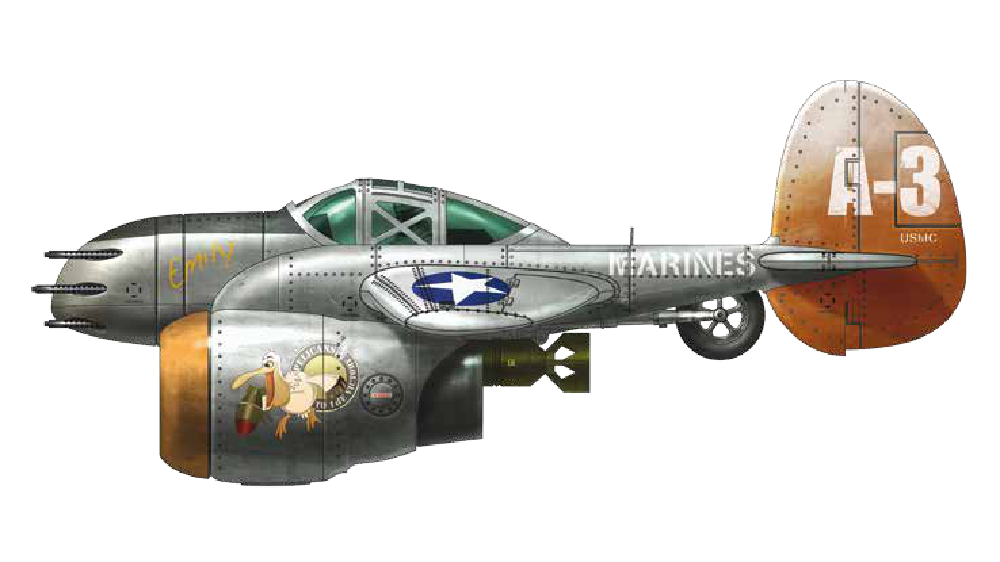
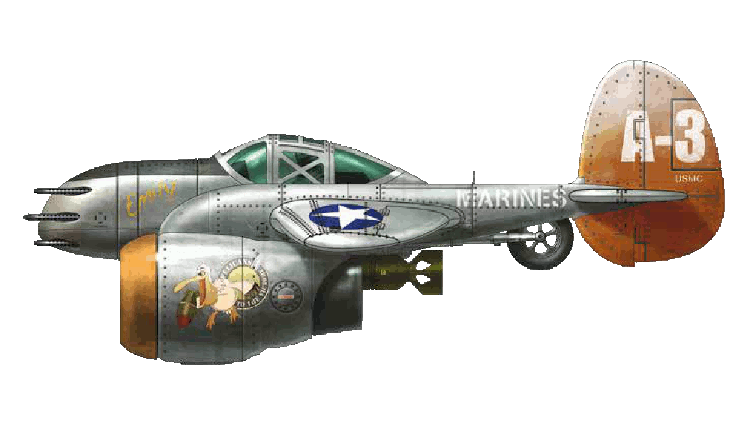
reduce file sizes

diff --git a/content/post/battle-for-zverograd-part-2.md b/content/post/battle-for-zverograd-part-2.md
@@ -66,7 +66,7 @@ Axis forces are all but surrounded inside Zverograd after losing control of the 
 The SSU have exhausted nearly all their reinforcements and Stavka has decided to cut its losses and leave the defenders of Zverograd to their fate. There are many other fronts to fight on; things are looking grim for SSU forces in North America and Africa. Thanks to the industrial facilities under SSU control inside the city, their soldiers can still get ammo and repair their vehicles, but every man who doesn’t come back from the daily ambushes and city fights is a definitive loss. The SSU troops have decided to dig in permanently, as they did in Stalingrad. The SSU have been trying to transform their chunk of the city into a bastion. Whole city blocks on the edge of their sector have been heavily fortified. They can now withstand and repel all but the most ferocious assault.
 
 The Allies have succeeded in their goal of taking control of the Western part of Zverograd. Their bold plan has worked, but at tremendous cost. Several elite regiments have been all but destroyed, and many others are barely fit for further combat. The “Zverograd Situation” has horrified Allied command, but they see no easy way to pull out of the city. Orders have arrived with strict instructions to minimize casualties as much as possible. No more soldiers’ lives should be lost on this front, and reinforcements will be scarce. This has caused Allied forces in Zverograd to follow their enemies’ lead and dig in as hard as possible.
-{{<figure src="/images/ssu-attack-central-station.png">}}
+{{<figure src="/images/ssu-attack-central-station.jpg">}}
 The situation in the Doomed City is as precarious as ever, but the time for massive assaults has passed. None of the warring blocs are willing to risk sending large forces against heavy fortifications, so special forces squads are the order of the day. Each bloc hopes that these small, highly trained units will be able to tip the balance of the stalemate in Zverograd. The primary goal of all three blocs is to take complete control of the city’s Central Train Station. The SSU managed to transform this huge complex into the biggest warehouse in the city, stocking it with supplies before losing much of it to Allied and Axis assaults. Now everyone wants a piece of it, as supplies are growing very scarce. The Central Station was already heavily fortified before the war. Now—with all three blocs inside and desperate to get the upper hand—it’s one of the most dangerous places on the planet.
 
 Read [Part 3]({{< ref "/post/battle-for-zverograd-part-3" >}}) of the Battle for Zverograd.

diff --git a/content/post/rtz-hq-recruit.md b/content/post/rtz-hq-recruit.md
@@ -1,7 +1,7 @@
 ---
 title: "Return to Zverograd - Call for HQ Staff"
 date: 2020-11-20T00:18:41+08:00
-featured_image: "/images/Cityfight.png"
+featured_image: "/images/Cityfight.jpg"
 description: "Your pit-stop for all your RTZ goodness!"
 tags: ["dust","rtz","zverograd"]
 draft: true

diff --git a/content/post/rtz-central.md b/content/post/rtz-central.md
@@ -1,7 +1,7 @@
 ---
 title: "Return to Zverograd Campaign Central"
 date: 2020-11-20T00:18:41+08:00
-featured_image: "/images/Cityfight.png"
+featured_image: "/images/Cityfight.jpg"
 description: "Your pit-stop for all your RTZ goodness!"
 tags: ["dust","rtz","zverograd"]
 ---

diff --git a/content/post/ode-to-dust-dice.md b/content/post/ode-to-dust-dice.md
@@ -1,7 +1,7 @@
 ---
 title: "Ode to Dust Dice"
 date: 2021-01-10T00:18:41+08:00
-featured_image: "/images/Cityfight.png"
+featured_image: "/images/Cityfight.jpg"
 description: "The beauty of the dice used in Dust"
 tags: ["dust","dice","statistics","game design"]
 draft: true

diff --git a/content/post/zverograd-ssu.md b/content/post/zverograd-ssu.md
@@ -1,7 +1,7 @@
 ---
 title: "Zverograd - SSU Forces"
 date: 2020-10-24T00:18:41+08:00
-featured_image: "/images/ssu-forces.png"
+featured_image: "/images/ssu-forces.jpg"
 description: "Building a force for your SSU army."
 tags: ["dust","rtz","zverograd"]
 ---
